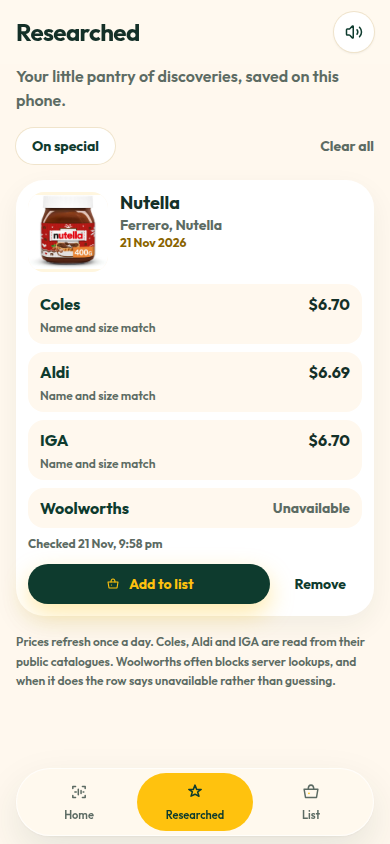
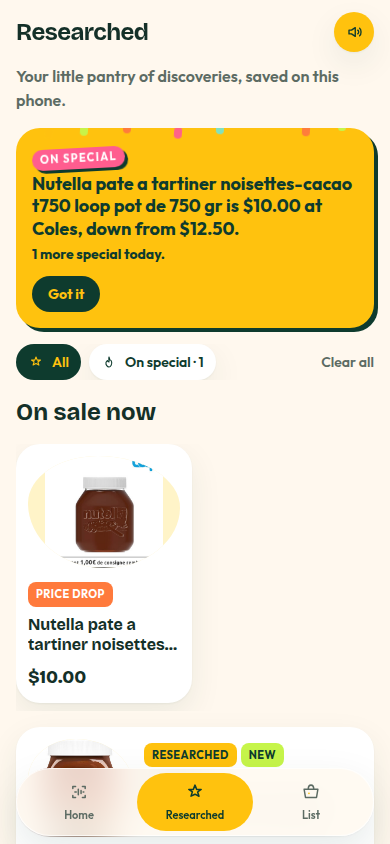
Finish the BeepBeep visual system across every screen.
Custom two-tone icons, tag strips, stat bars, blob photos and chunky buttons now cover researched products, the shopping list, in-store mode and the product page, with the same type, spacing and shadows as the home screen.

diff --git a/src/pages/ResearchedPage.tsx b/src/pages/ResearchedPage.tsx
@@ -1,12 +1,12 @@
 import { Icon } from '../components/icons.tsx'
 import { useMemo, useState } from 'react'
 import { Link } from 'react-router-dom'
-import { PriceStack, quoteBadge } from '../components/Prices.tsx'
+import { PriceStack } from '../components/Prices.tsx'
 import { SpecialBanner } from '../components/SpecialBanner.tsx'
 import { TopBar } from '../components/TopBar.tsx'
 import { Button } from '../components/ui/button.tsx'
 import { Sheet } from '../components/ui/dialog.tsx'
-import { aud, scannedOn, STORE_LABELS } from '../lib/format.ts'
+import { aud, scannedOn } from '../lib/format.ts'
 import { usePrices } from '../lib/prices.ts'
 import { clearResearched, removeResearched, useResearched } from '../lib/researched.ts'
 import { preferredPlace } from '../lib/prices.ts'
@@ -34,16 +34,11 @@ export function ResearchedPage() {
         <p className="font-semibold text-muted">Your little pantry of discoveries, saved on this phone.</p>
         <SpecialBanner records={records} />
         {offline ? <p className="rounded-2xl bg-white px-4 py-3 text-sm font-bold text-sale">Price check is offline. Your researched products are still here.</p> : null}
-        <div className="flex items-center justify-between gap-3">
-          <button
-            type="button"
-            onClick={() => setOnlySpecial((value) => !value)}
-            className={`rounded-full px-4 py-2 text-sm font-extrabold ${onlySpecial ? 'bg-sale text-white' : 'bg-white text-pine ring-1 ring-line'}`}
-          >
-            On special{specials.length ? ` · ${specials.length}` : ''}
-          </button>
+        <div className="no-scrollbar -mx-4 flex items-center gap-2 overflow-x-auto px-4">
+          <FilterPill active={!onlySpecial} icon="star" label="All" onClick={() => setOnlySpecial(false)} />
+          <FilterPill active={onlySpecial} icon="fire" label={`On special${specials.length ? ` · ${specials.length}` : ''}`} onClick={() => setOnlySpecial(true)} />
           {items.length ? (
-            <button type="button" className="text-sm font-extrabold text-muted" onClick={() => setConfirm(true)}>
+            <button type="button" className="ml-auto shrink-0 text-sm font-semibold text-muted" onClick={() => setConfirm(true)}>
               Clear all
             </button>
           ) : null}
@@ -51,24 +46,19 @@ export function ResearchedPage() {
 
         {specials.length && !onlySpecial ? (
           <section>
-            <h2 className="sticker mb-3 bg-lime px-3 py-1 text-lg font-black tracking-tight text-pine">On sale now</h2>
+            <h2 className="font-display mb-4 text-2xl font-bold">On sale now</h2>
             <div className="flex gap-3 overflow-x-auto pb-2">
               {specials.map((item) => {
                 const quote = bestSpecial(prices[item.code]?.stores || [])
                 return (
-                  <Link key={item.code} to={`/product/${encodeURIComponent(item.code)}`} className="w-44 shrink-0 overflow-hidden rounded-[24px] bg-white shadow-[0_10px_28px_rgba(20,48,40,0.06)]">
-                    <div className="flex h-28 items-center justify-center bg-[#fff6df]">
-                      {item.image ? <img src={item.image} alt="" className="h-full w-full object-contain p-2" referrerPolicy="no-referrer" /> : null}
+                  <Link key={item.code} to={`/product/${encodeURIComponent(item.code)}`} className="w-44 shrink-0 overflow-hidden rounded-3xl bg-white shadow-soft">
+                    <div className="blob-mask mx-3 mt-3 h-28 bg-gold-soft">
+                      {item.image ? <img src={item.image} alt="" className="h-full w-full object-contain" referrerPolicy="no-referrer" /> : <span className="grid h-full place-items-center text-pine"><Icon name="basket" /></span>}
                     </div>
                     <div className="p-3">
-                      <p className="line-clamp-2 font-extrabold leading-tight">{item.name || item.code}</p>
-                      {quote ? (
-                        <p className="mt-2 text-sm font-extrabold text-sale">
-                          {STORE_LABELS[quote.store]} {quote.price != null ? aud(quote.price) : ''}
-                          {quote.wasPrice ? <span className="ml-1 text-muted line-through">{aud(quote.wasPrice)}</span> : null}
-                        </p>
-                      ) : null}
-                      <span className="mt-2 inline-flex rounded-full bg-sale px-2 py-0.5 text-[11px] font-extrabold text-white">{quote ? quoteBadge(quote) : 'Special'}</span>
+                      <span className="tag-strip bg-pop text-white">{quote?.wasPrice ? 'Price drop' : 'On special'}</span>
+                      <p className="font-display mt-2 line-clamp-2 font-bold leading-tight">{item.name || item.code}</p>
+                      {quote?.price != null ? <p className="font-display mt-2 text-lg font-extrabold">{aud(quote.price)}</p> : null}
                     </div>
                   </Link>
                 )
@@ -86,18 +76,21 @@ export function ResearchedPage() {
         ) : (
           <ul className="space-y-3">
             {visible.map((item) => (
-              <li key={item.code} className="rounded-[28px] bg-white p-3 shadow-[0_10px_28px_rgba(20,48,40,0.06)]">
-                <Link to={`/product/${encodeURIComponent(item.code)}`} className="flex gap-3">
-                  <div className="flex h-20 w-20 shrink-0 items-center justify-center overflow-hidden rounded-2xl bg-[#fff6df]">
-                    {item.image ? <img src={item.image} alt="" className="h-full w-full object-contain" referrerPolicy="no-referrer" /> : <span className="text-xs font-extrabold text-gold-ink">No photo</span>}
+              <li key={item.code} className="overflow-hidden rounded-3xl bg-white shadow-soft">
+                <Link to={`/product/${encodeURIComponent(item.code)}`} className="grid grid-cols-[104px_1fr] gap-3 p-3">
+                  <div className="blob-mask h-24 bg-gold-soft">
+                    {item.image ? <img src={item.image} alt="" className="h-full w-full object-contain" referrerPolicy="no-referrer" /> : <span className="grid h-full place-items-center text-pine"><Icon name="basket" /></span>}
                   </div>
-                  <div className="min-w-0">
-                    <p className="truncate text-lg font-extrabold leading-tight">{item.name || 'Unknown product'}</p>
-                    <p className="truncate text-sm font-bold text-muted">{item.brand || item.code}</p>
-                    <p className="text-xs font-bold text-gold-ink">{scannedOn(item.scannedAt)}</p>
+                  <div className="min-w-0 py-1">
+                    <div className="flex flex-wrap gap-1">
+                      {bestSpecial(prices[item.code]?.stores || []) ? <span className="tag-strip bg-pop text-white">On special</span> : <span className="tag-strip bg-gold text-pine">Researched</span>}
+                      {Date.now() - item.scannedAt < 86_400_000 ? <span className="tag-strip bg-lime text-pine">New</span> : null}
+                    </div>
+                    <p className="font-display mt-2 truncate text-lg font-bold leading-tight">{item.name || 'Unknown product'}</p>
+                    <p className="truncate text-sm text-muted">{item.brand || item.code} · {scannedOn(item.scannedAt)}</p>
                   </div>
                 </Link>
-                <div className="mt-3">
+                <div className="px-3 pb-3">
                   <PriceStack record={prices[item.code]} pending={pending.includes(item.code)} compact />
                 </div>
                 <div className="mt-3 flex gap-2">
@@ -133,5 +126,14 @@ export function ResearchedPage() {
         </div>
       </Sheet>
     </div>
+  )
+}
+
+function FilterPill({ active, icon, label, onClick }: { active: boolean; icon: 'star' | 'fire'; label: string; onClick: () => void }) {
+  return (
+    <button type="button" onClick={onClick} className={`press flex shrink-0 items-center gap-2 rounded-full px-3 py-2 text-sm font-semibold ${active ? 'bg-pine text-gold' : 'bg-white text-pine shadow-soft'}`}>
+      <Icon name={icon} size={16} />
+      {label}
+    </button>
   )
 }

diff --git a/src/pages/ShoppingPage.tsx b/src/pages/ShoppingPage.tsx
@@ -10,6 +10,7 @@ import { Input } from '../components/ui/input.tsx'
 import { aud } from '../lib/format.ts'
 import { lowestPrice, usePrices } from '../lib/prices.ts'
 import { addFreeText, clearTicked, removeItem, setQuantity, toggleItem, useShoppingList } from '../lib/shopping.ts'
+import { Confetti } from '../components/Confetti.tsx'
 
 export function ShoppingPage() {
   const items = useShoppingList()
@@ -62,36 +63,43 @@ export function ShoppingPage() {
             {items.map((item) => {
               const price = item.barcode ? lowestPrice(prices[item.barcode]) : null
               return (
-                <li key={item.id} className={`rounded-[24px] bg-white p-3 shadow-sm ${item.checked ? 'opacity-60' : ''}`}>
-                  <div className="flex items-center gap-3">
+                <li key={item.id} className={`overflow-hidden rounded-3xl bg-white shadow-soft transition ${item.checked ? 'opacity-60' : ''}`}>
+                  {item.store ? <div className="tag-strip rounded-none bg-gold text-pine">{item.store}</div> : null}
+                  <div className="flex items-start gap-3 p-4">
                     <button
                       type="button"
                       aria-pressed={item.checked}
                       aria-label={item.checked ? `Untick ${item.name}` : `Tick ${item.name}`}
                       onClick={() => toggleItem(item.id)}
-                      className={`h-8 w-8 shrink-0 rounded-full border-2 ${item.checked ? 'border-pine bg-gold' : 'border-line bg-white'}`}
-                    />
-                    <div className="min-w-0 flex-1">
-                      <p className={`truncate font-extrabold ${item.checked ? 'line-through' : ''}`}>{item.name}</p>
-                      <p className="text-xs font-bold text-muted">
-                        {item.brand || 'Typed in'}
-                        {price != null ? ` · from ${aud(price)} online` : ''}
-                      </p>
-                    </div>
-                    <div className="flex items-center gap-1">
-                      <button type="button" className="flex h-9 w-9 items-center justify-center rounded-full bg-paper text-lg font-bold" onClick={() => setQuantity(item.id, item.quantity - 1)} aria-label="Decrease quantity">−</button>
-                      <span className="w-6 text-center font-bold">{item.quantity}</span>
-                      <button type="button" className="flex h-9 w-9 items-center justify-center rounded-full bg-paper text-lg font-bold" onClick={() => setQuantity(item.id, item.quantity + 1)} aria-label="Increase quantity">+</button>
-                    </div>
-                    <button type="button" className="text-sm font-semibold text-muted" onClick={() => removeItem(item.id)} aria-label={`Remove ${item.name}`}>
-                      Remove
+                      className={`press grid h-14 w-14 shrink-0 place-items-center rounded-full border-4 ${item.checked ? 'border-pine bg-gold text-pine' : 'border-line bg-paper text-transparent'}`}
+                    >
+                      <Icon name="tick" size={28} />
                     </button>
+                    <div className="min-w-0 flex-1">
+                      <p className={`font-display text-lg leading-tight font-bold ${item.checked ? 'line-through' : ''}`}>{item.name}</p>
+                      <p className="text-xs font-semibold text-muted">
+                        {item.brand || 'Typed in'}
+                        {price != null ? ` · from ${aud(price)}` : ''}
+                      </p>
+                      <div className="mt-2 flex items-center gap-2">
+                        <button type="button" className="flex h-8 w-8 items-center justify-center rounded-full bg-paper text-lg font-bold" onClick={() => setQuantity(item.id, item.quantity - 1)} aria-label="Decrease quantity">−</button>
+                        <span className="w-6 text-center text-sm font-bold">{item.quantity}</span>
+                        <button type="button" className="flex h-8 w-8 items-center justify-center rounded-full bg-paper text-lg font-bold" onClick={() => setQuantity(item.id, item.quantity + 1)} aria-label="Increase quantity">+</button>
+                        <button type="button" className="ml-auto text-sm font-semibold text-muted" onClick={() => removeItem(item.id)} aria-label={`Remove ${item.name}`}>Remove</button>
+                      </div>
+                    </div>
                   </div>
                 </li>
               )
             })}
           </ul>
         )}
+        {items.length > 0 && open.length === 0 ? (
+          <div className="relative overflow-hidden rounded-3xl bg-lime px-4 py-6 text-center">
+            <Confetti />
+            <p className="font-display relative text-2xl font-bold text-pine">List done. Nice trolley.</p>
+          </div>
+        ) : null}
         {items.some((item) => item.checked) ? (
           <Button type="button" variant="secondary" onClick={clearTicked}>Clear ticked</Button>
         ) : null}

diff --git a/src/pages/InStorePage.tsx b/src/pages/InStorePage.tsx
@@ -1,5 +1,6 @@
 import { useEffect, useState } from 'react'
 import { Link, useParams } from 'react-router-dom'
+import { Icon } from '../components/icons.tsx'
 import { arrangeForStore } from '../lib/store-mode.ts'
 import { listId, listSnapshot, toggleItem, useShoppingList } from '../lib/shopping.ts'
 import type { ListItem } from '../lib/types.ts'
@@ -97,10 +98,10 @@ export function InStorePage() {
     <div className="min-h-dvh bg-paper px-4 pt-4 pb-8">
       <div className="flex items-center justify-between gap-3">
         <div>
-          <p className="sticker bg-lime px-3 py-1 text-xs font-black uppercase tracking-wide text-pine">In-store mode</p>
-          <h1 className="mt-3 text-3xl font-black leading-none text-pine">Tick it off</h1>
+          <p className="tag-strip bg-lime text-pine">In-store mode</p>
+          <h1 className="font-display mt-4 text-[32px] leading-none font-extrabold text-pine">Tick it off</h1>
         </div>
-        <Link to="/list" className="rounded-full bg-white px-4 py-2 text-sm font-black text-pine ring-1 ring-line">
+        <Link to="/list" className="press rounded-full bg-white px-4 py-2 text-sm font-semibold text-pine shadow-soft">
           Done
         </Link>
       </div>
@@ -110,12 +111,16 @@ export function InStorePage() {
       {offlineNote ? <p className="mt-2 text-sm font-bold text-gold-ink">{offlineNote}</p> : null}
 
       {!items.length ? (
-        <p className="mt-8 rounded-[28px] bg-white p-6 text-center text-lg font-black">Nothing on this list yet.</p>
+        <div className="mt-8 rounded-3xl bg-white px-6 py-10 text-center shadow-soft">
+          <span className="mx-auto grid h-16 w-16 place-items-center rounded-3xl bg-gold text-pine"><Icon name="basket" size={32} /></span>
+          <p className="font-display mt-4 text-2xl font-bold">Nothing to tick</p>
+          <p className="mt-2 text-sm text-muted">Add a few things, then come back and beep through the aisle.</p>
+        </div>
       ) : (
         <div className="mt-5 space-y-5">
           {groups.map((group) => (
             <section key={group.store}>
-              <h2 className="mb-2 text-sm font-black uppercase tracking-[0.14em] text-gold-ink">{group.store}</h2>
+              <h2 className="mb-2 flex items-center gap-2 text-sm font-bold tracking-wide text-gold-ink uppercase"><Icon name="store" size={16} /> {group.store}</h2>
               <ul className="space-y-3">
                 {group.items.map((item) => (
                   <StoreRow key={item.id} item={item} onTick={() => tick(item.id)} />
@@ -146,13 +151,13 @@ function StoreRow({ item, onTick }: { item: ListItem; onTick: () => void }) {
         type="button"
         onClick={onTick}
         aria-pressed={item.checked}
-        className="flex min-h-20 w-full items-center gap-4 rounded-[28px] bg-white px-3 py-3 text-left shadow-[0_8px_24px_rgba(20,48,40,0.06)]"
+        className="press flex min-h-20 w-full items-center gap-4 rounded-3xl bg-white px-3 py-3 text-left shadow-soft"
       >
-        <span className={`flex h-16 w-16 shrink-0 items-center justify-center rounded-full border-4 text-2xl font-black ${item.checked ? 'border-pine bg-gold text-pine' : 'border-line bg-paper text-transparent'}`}>
-          ✓
+        <span className={`grid h-16 w-16 shrink-0 place-items-center rounded-full border-4 ${item.checked ? 'border-pine bg-gold text-pine' : 'border-line bg-paper text-transparent'}`}>
+          <Icon name="tick" size={28} />
         </span>
         <span className="min-w-0">
-          <span className={`block text-xl font-black leading-tight ${item.checked ? 'line-through' : ''}`}>
+          <span className={`font-display block text-xl font-bold leading-tight ${item.checked ? 'line-through' : ''}`}>
             {item.quantity > 1 ? `${item.quantity} × ` : ''}
             {item.name}
           </span>

diff --git a/src/pages/ProductPage.tsx b/src/pages/ProductPage.tsx
@@ -1,6 +1,6 @@
-import { ShoppingBag } from 'lucide-react'
 import { useEffect, useState } from 'react'
 import { useParams } from 'react-router-dom'
+import { Icon } from '../components/icons.tsx'
 import { ProductView } from '../components/ProductView.tsx'
 import { TopBar } from '../components/TopBar.tsx'
 import { Button } from '../components/ui/button.tsx'
@@ -44,10 +44,11 @@ export function ProductPage() {
     <div>
       <TopBar back title="BeepBeep" />
       {!product && !error ? (
-        <div className="space-y-4 px-4">
-          <div className="h-72 animate-pulse rounded-[32px] bg-white" />
-          <div className="h-28 animate-pulse rounded-[28px] bg-white" />
-          <p className="font-black text-gold-ink">Rummaging through the open catalogues…</p>
+        <div className="space-y-4 px-4" aria-busy="true">
+          <div className="h-72 animate-pulse rounded-3xl bg-white shadow-soft" />
+          <div className="h-16 animate-pulse rounded-2xl bg-white" />
+          <div className="h-24 animate-pulse rounded-3xl bg-white" />
+          <p className="text-sm font-semibold text-gold-ink">Rummaging through the open catalogues…</p>
         </div>
       ) : null}
       {error ? <p className="mx-4 rounded-[24px] bg-white p-5 font-bold text-sale">{error}</p> : null}
@@ -57,14 +58,15 @@ export function ProductPage() {
           <Button
             type="button"
             size="lg"
-            className={`w-full ${wiggle ? 'wiggle' : ''}`}
+            variant="pine"
+            className={`press w-full ${wiggle ? 'wiggle' : ''}`}
             onClick={() => {
               addProductToList(product, preferredPlace(prices[product.code]))
               setWiggle(true)
               window.setTimeout(() => setWiggle(false), 500)
             }}
           >
-            <ShoppingBag />
+            <Icon name="basket" size={22} />
             {onList ? 'Add another' : 'Add to list'}
           </Button>
         </div>

diff --git a/src/components/TopBar.tsx b/src/components/TopBar.tsx
@@ -1,23 +1,23 @@
-import { ChevronLeft } from 'lucide-react'
 import { useNavigate } from 'react-router-dom'
+import { Icon } from './icons.tsx'
 import { SoundToggle } from './SoundToggle.tsx'
 import { Wordmark } from './Wordmark.tsx'
 
 export function TopBar({ back = false, title }: { back?: boolean; title?: string }) {
   const navigate = useNavigate()
   return (
-    <header className="sticky top-0 z-30 flex h-16 items-center gap-2 bg-paper/90 px-4 backdrop-blur">
+    <header className="sticky top-0 z-30 flex h-16 items-center gap-2 bg-paper/80 px-4 backdrop-blur-md">
       {back ? (
         <button
           type="button"
           onClick={() => navigate(-1)}
-          className="flex h-10 w-10 items-center justify-center rounded-full bg-white text-pine shadow-sm ring-1 ring-line"
+          className="press flex h-10 w-10 items-center justify-center rounded-full bg-white text-pine shadow-soft"
           aria-label="Back"
         >
-          <ChevronLeft />
+          <Icon name="back" size={22} />
         </button>
       ) : null}
-      {title ? <h1 className="text-2xl font-black tracking-tight">{title}</h1> : <Wordmark />}
+      {title ? <h1 className="font-display text-2xl font-bold tracking-tight">{title}</h1> : <Wordmark />}
       <SoundToggle />
     </header>
   )

diff --git a/src/components/SoundToggle.tsx b/src/components/SoundToggle.tsx
@@ -1,5 +1,5 @@
-import { Volume2, VolumeX } from 'lucide-react'
 import { useSyncExternalStore } from 'react'
+import { Icon } from './icons.tsx'
 import { setSoundEnabled, soundEnabled, subscribeSound } from '../lib/sound.ts'
 
 export function SoundToggle() {
@@ -10,9 +10,9 @@ export function SoundToggle() {
       aria-pressed={on}
       aria-label={on ? 'Sound on. Turn scanner beep off' : 'Sound off. Turn scanner beep on'}
       onClick={() => setSoundEnabled(!on)}
-      className="ml-auto flex h-10 w-10 items-center justify-center rounded-full bg-white text-pine shadow-sm ring-1 ring-line"
+      className={`press ml-auto flex h-10 w-10 items-center justify-center rounded-full shadow-soft ${on ? 'bg-gold text-pine' : 'bg-white text-muted'}`}
     >
-      {on ? <Volume2 size={18} /> : <VolumeX size={18} />}
+      <Icon name="sound" size={20} />
     </button>
   )
 }

diff --git a/src/pages/ScanPage.tsx b/src/pages/ScanPage.tsx
@@ -166,11 +166,11 @@ export function ScanPage() {
                 <Icon name="scan" size={36} />
               </span>
             </div>
-            <Button type="button" size="lg" className="press mt-6 w-full bg-pine text-gold shadow-soft hover:bg-leaf" onClick={() => void beginCamera()}>
+              <Button type="button" size="lg" variant="pine" className="press mt-6 w-full" onClick={() => void beginCamera()}>
               <Icon name="scan" size={22} />
               Start camera
             </Button>
-            {specials && specials.length > 0 ? (
+            {specials?.some((item) => item.image) ? (
               <div className="mt-8 flex items-end justify-center">
                 {specials.slice(0, 3).map((item, index) => (
                   <Link

diff --git a/src/components/ProductView.tsx b/src/components/ProductView.tsx
@@ -53,7 +53,7 @@ export function ProductView({ product, prices, pending }: { product: Product; pr
             {special ? <span className="tag-strip bg-pop text-white">{special.wasPrice ? 'Price drop' : 'On special'}</span> : null}
             {place.store ? <span className="tag-strip bg-gold text-pine">Cheapest at {place.store}</span> : null}
           </div>
-          <div className="blob-mask mx-auto aspect-square max-h-72 bg-white">
+          <div className="blob-mask mx-auto h-64 w-full max-w-[280px] bg-white">
             {product.image ? (
               <img src={product.image.value} alt={product.name?.value || 'Product photo'} className="h-full w-full object-contain p-6" referrerPolicy="no-referrer" />
             ) : (

diff --git a/src/components/ui/button.tsx b/src/components/ui/button.tsx
@@ -12,6 +12,7 @@ const buttonVariants = cva(
         secondary: 'bg-white text-pine shadow-[0_8px_24px_rgba(20,48,40,0.06)] ring-1 ring-line hover:bg-gold-soft',
         ghost: 'bg-transparent text-pine hover:bg-white/70',
         sale: 'bg-sale text-white hover:opacity-90',
+        pine: 'bg-pine text-gold shadow-soft hover:bg-leaf',
       },
       size: {
         default: 'h-12 px-5 text-base',

diff --git a/src/components/icons.tsx b/src/components/icons.tsx
@@ -21,6 +21,7 @@ export type IconName =
   | 'pet'
   | 'baby'
   | 'booze'
+  | 'back'
 
 export function Icon({ name, size = 24 }: { name: IconName; size?: number }) {
   return (
@@ -150,6 +151,7 @@ const glyphs: Record<IconName, ReactNode> = {
       <path d="M12 26h8" {...stroke} />
     </>
   ),
+  back: <path d="M19 8l-8 8 8 8" {...stroke} />,
 }
 
 export const PANTRY = [
